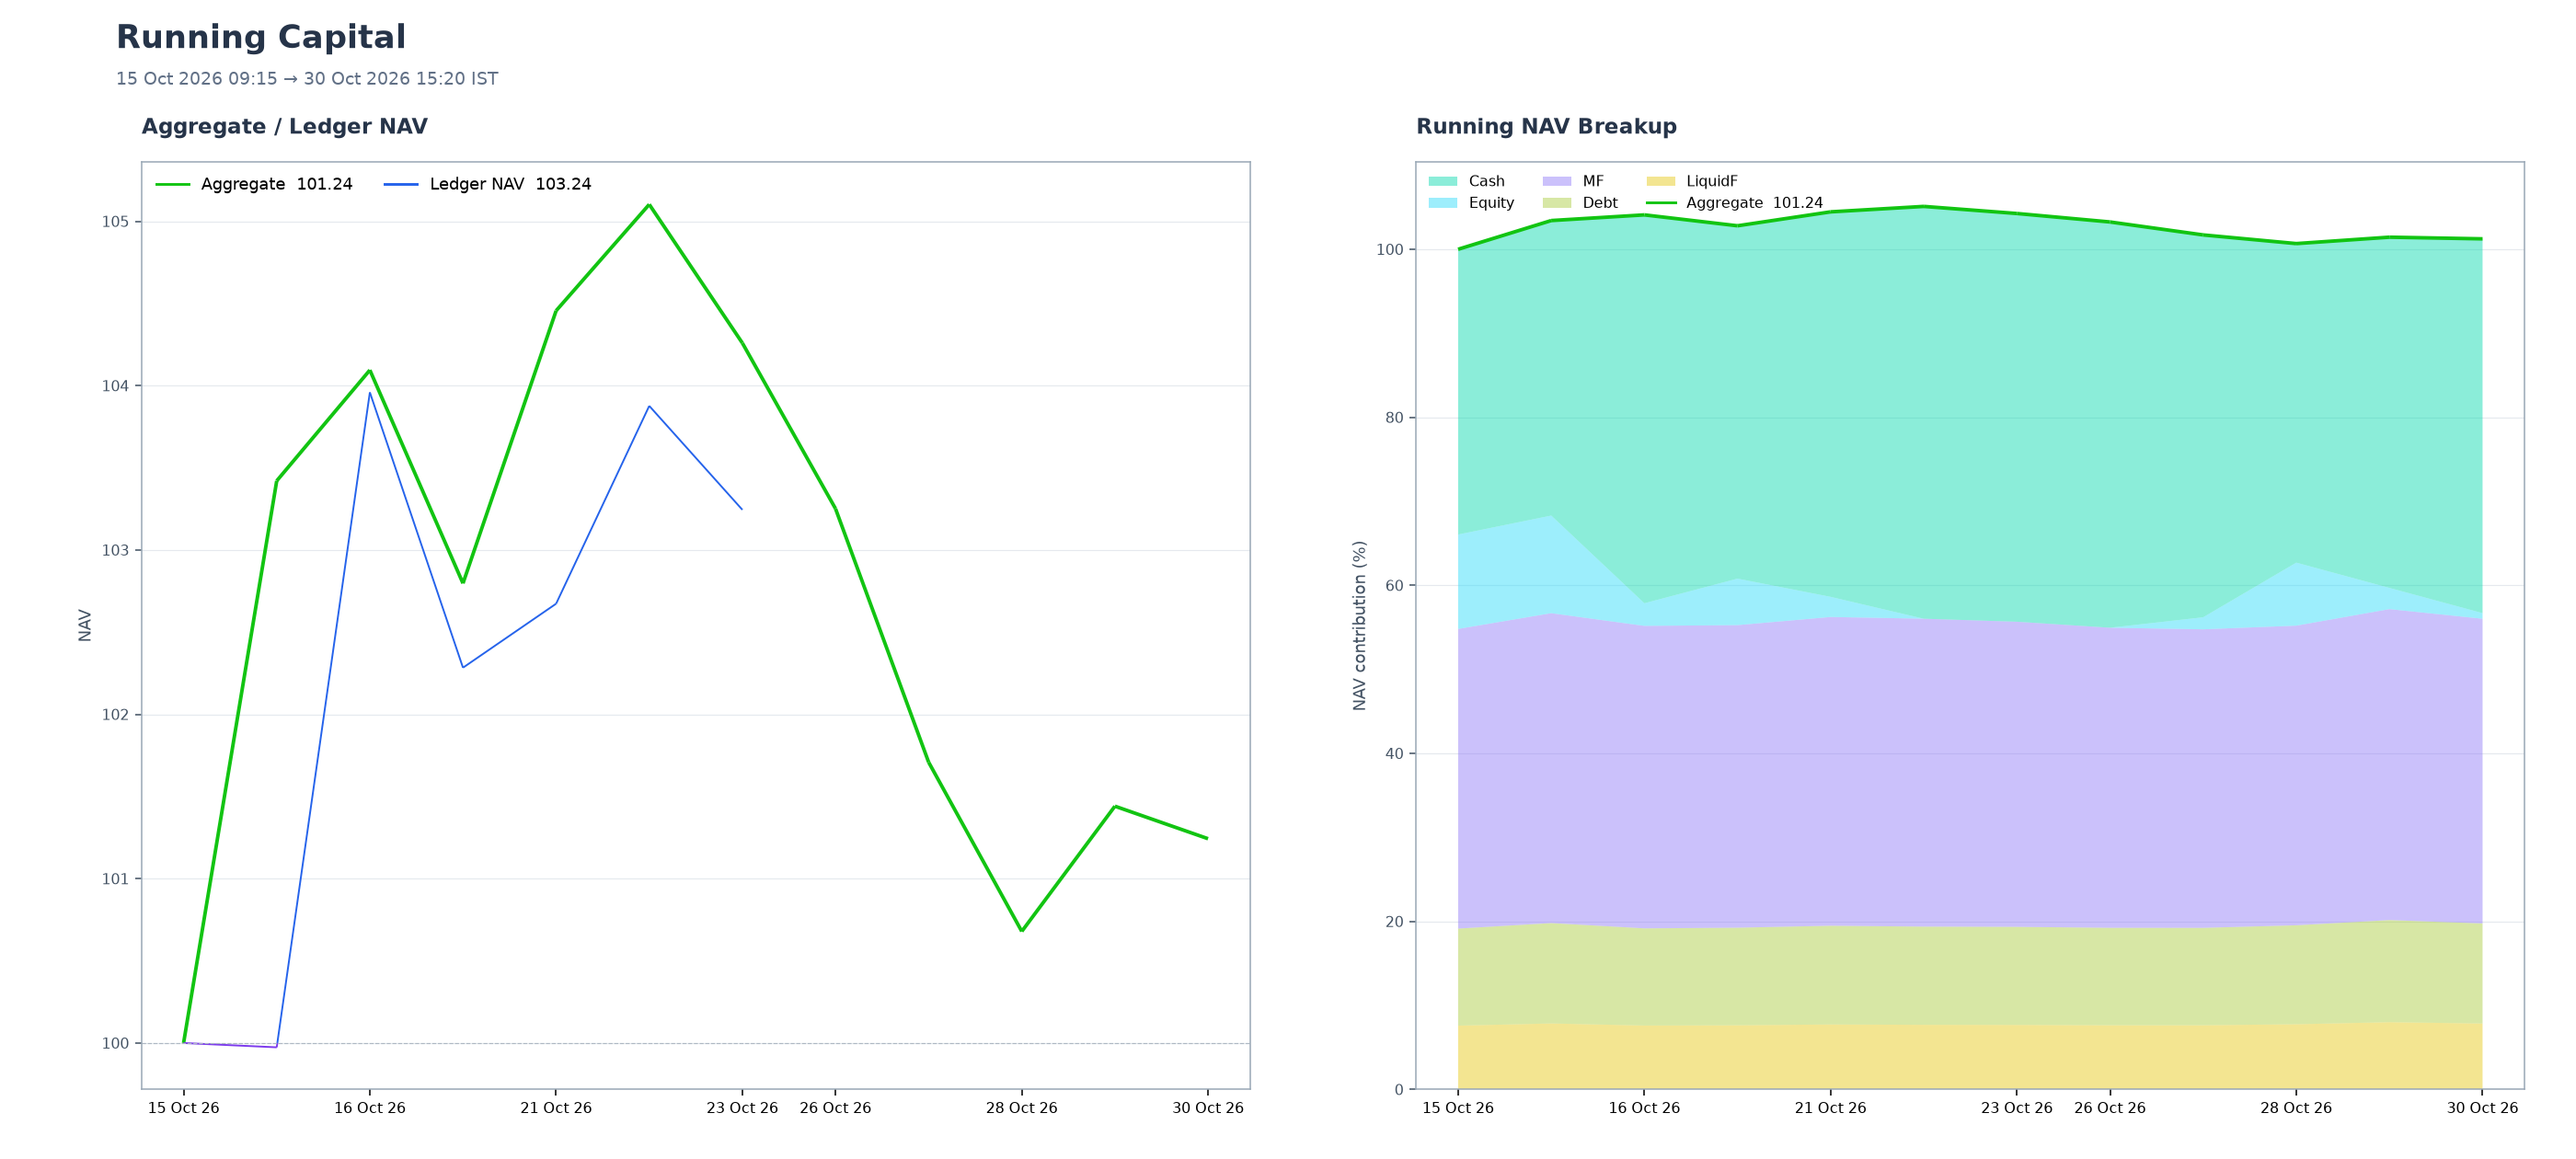
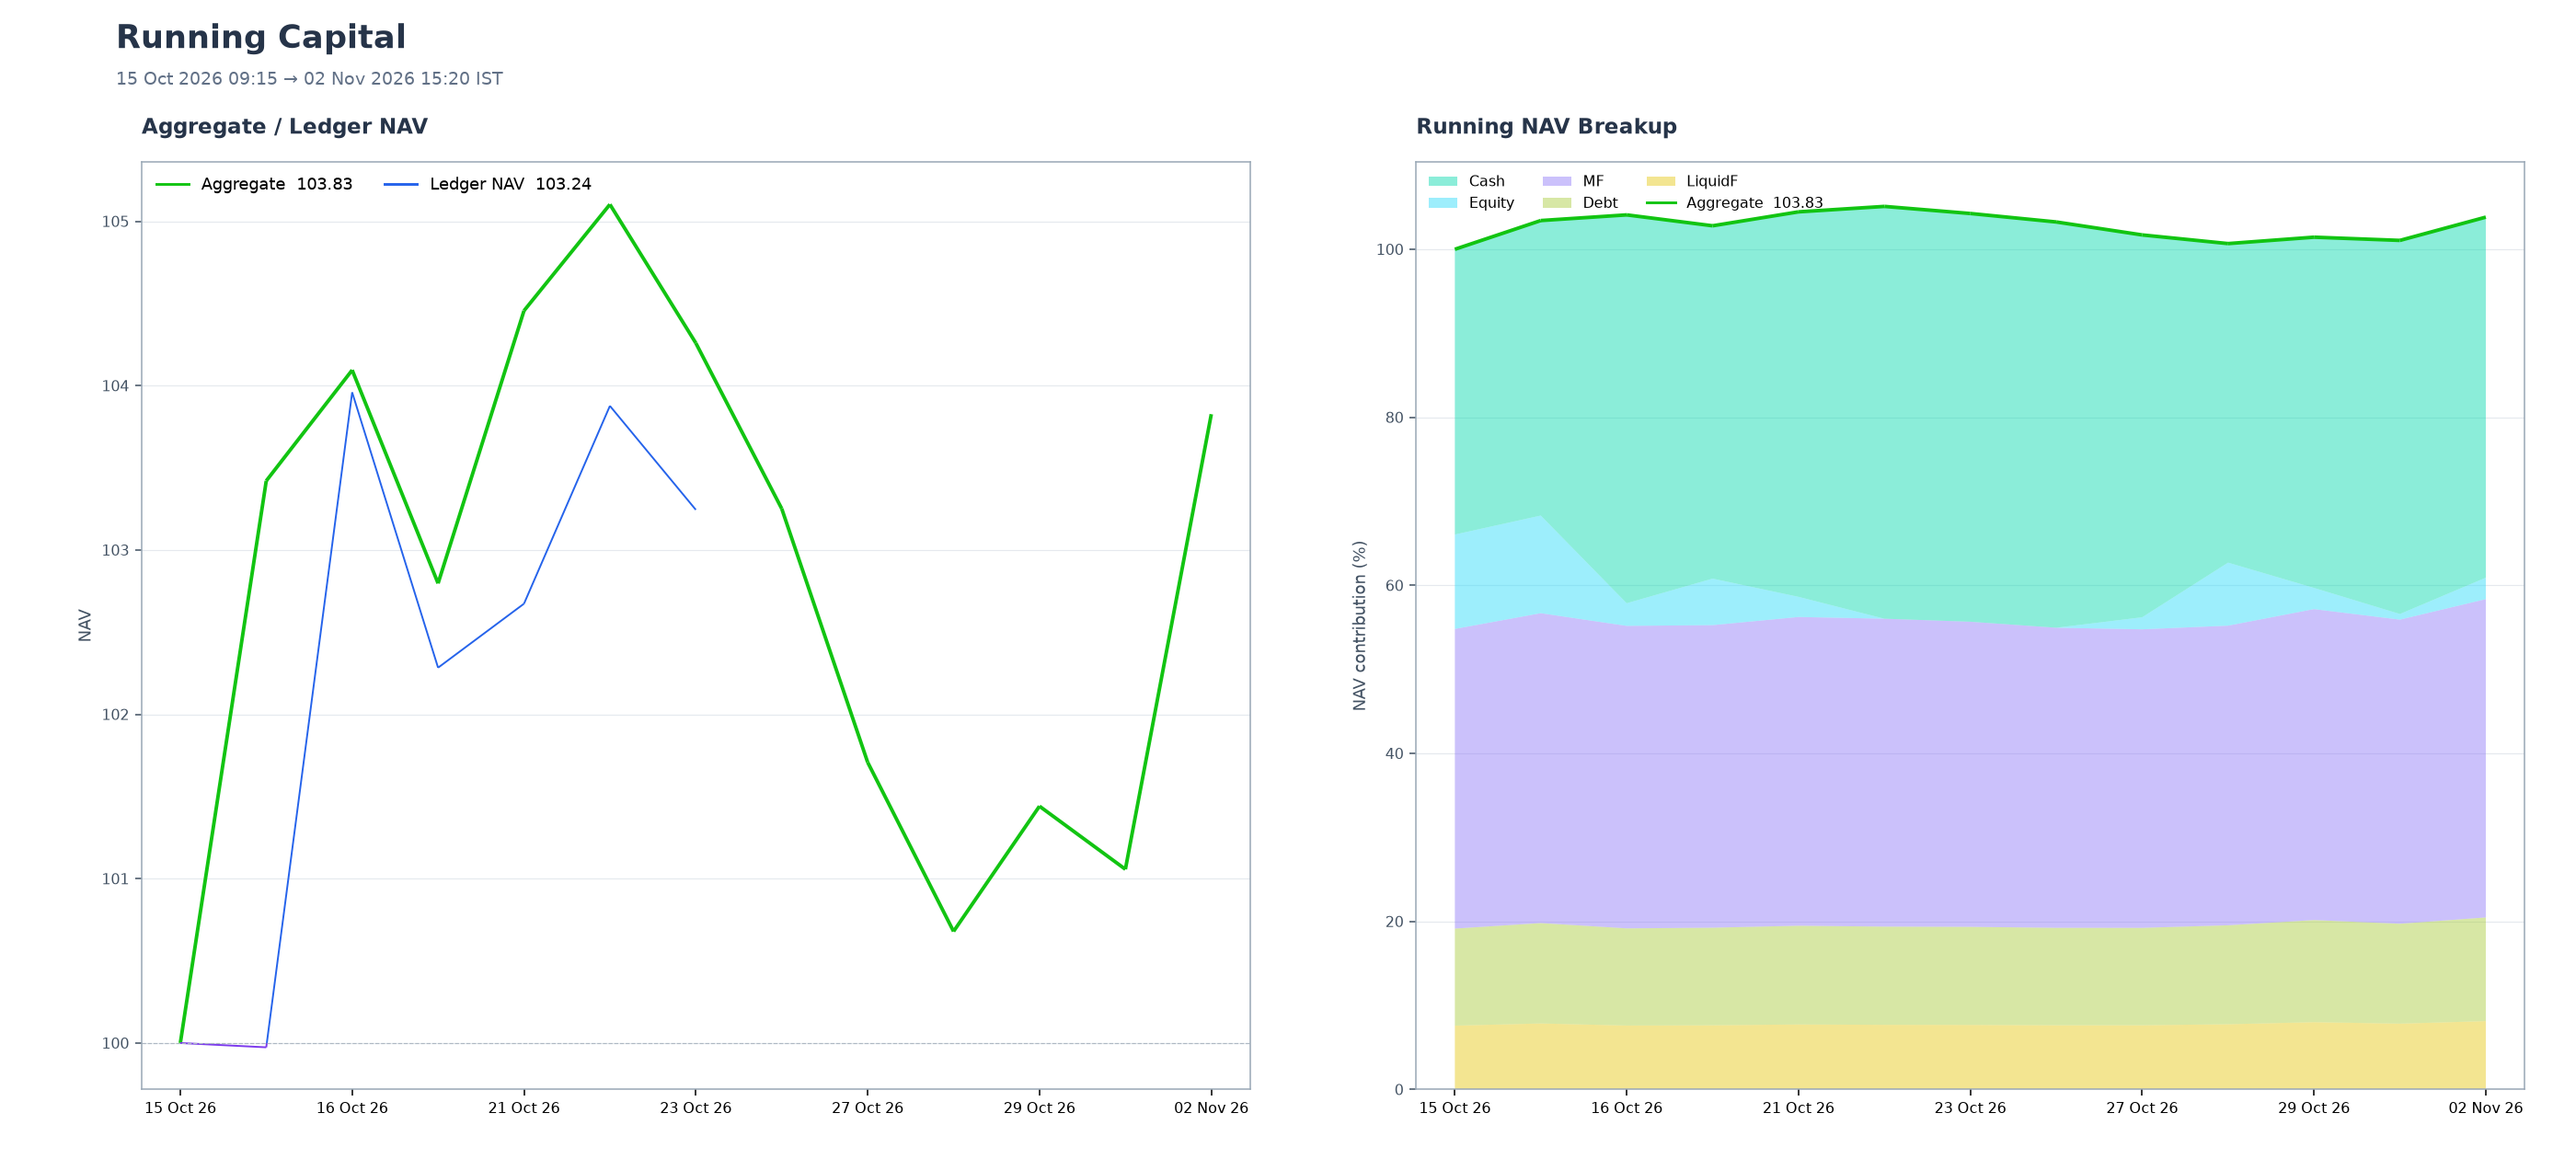
Nabz report 2026-11-02

diff --git a/content/daily/20261102.md b/content/daily/20261102.md
@@ -1,0 +1,9 @@
+---
+title: "20261102"
+date: 2026-11-02T15:20:00+05:30
+slug: "20261102"
+folder: "20261102"
+iso_date: "2026-11-02"
+preview: false
+strategy_today: "1520-strategy-today-REL.png"
+---

diff --git a/content/i/5e91d25cedf2bc8adc55.md b/content/i/5e91d25cedf2bc8adc55.md
@@ -1,0 +1,4 @@
+---
+title: "Today's P&L"
+image: "i/5e91d25cedf2bc8adc55.png"
+---
